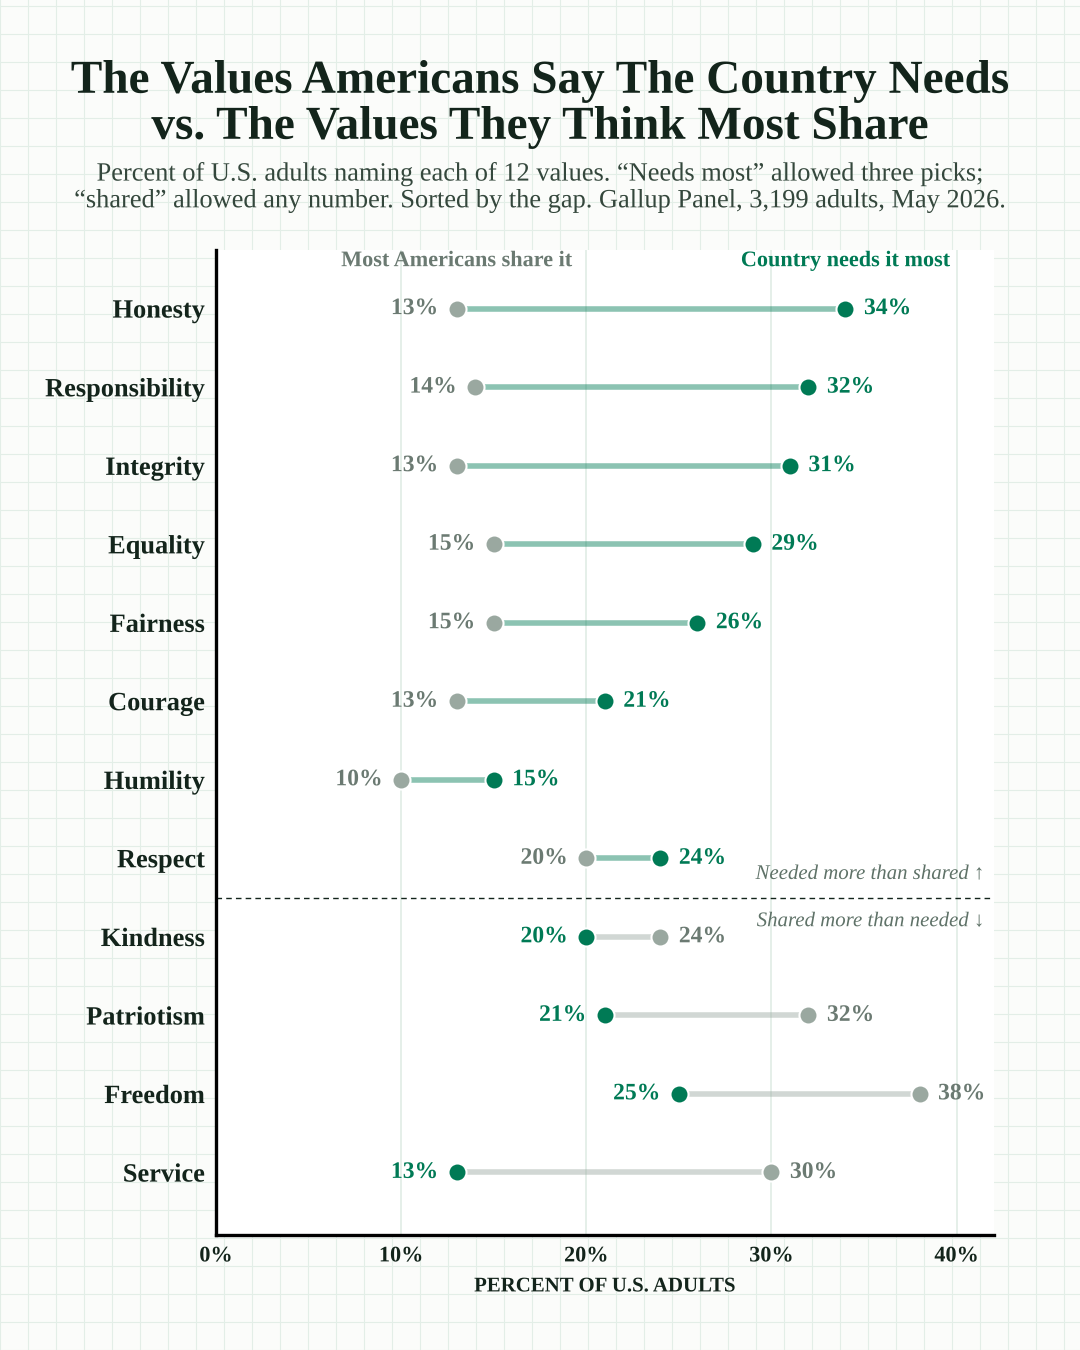
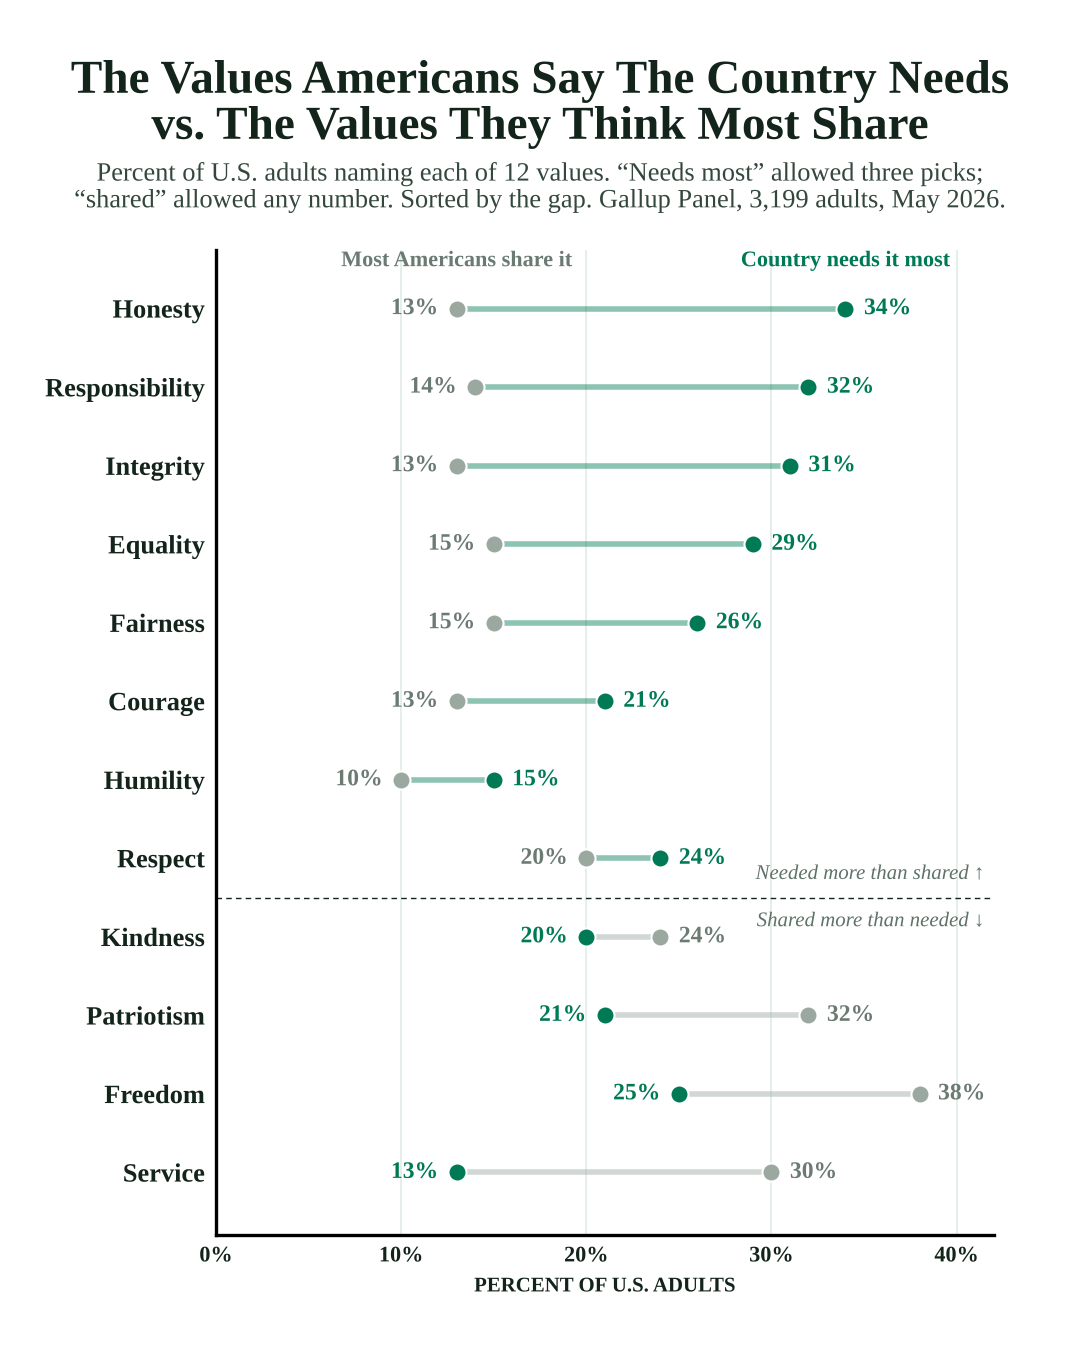
Values story: plain white background on chart images
Claude-Session: https://claude.ai/code/session_01P7HXLHT8bQYmHkvAVWjw9o

diff --git a/values/src/values_chart.py b/values/src/values_chart.py
@@ -12,7 +12,7 @@ for f in fm.findSystemFonts():
         fm.fontManager.addfont(f)
 plt.rcParams["font.family"] = ["Times New Roman", "Liberation Serif", "serif"]
 
-HI, GRAY, INK, MUT, GRID, BG = "#007a55", "#9aa8a0", "#13241b", "#5f7268", "#e3eee7", "#fbfcfa"
+HI, GRAY, INK, MUT, GRID, BG = "#007a55", "#9aa8a0", "#13241b", "#5f7268", "#e3eee7", "#ffffff"
 
 # (value, needed most %, shared by most %)
 ROWS = [("Honesty", 34, 13), ("Responsibility", 32, 14), ("Integrity", 31, 13), ("Equality", 29, 15),
@@ -34,7 +34,7 @@ def graph_paper(fig, step):
 def draw(path, W, H, box, title, sub, s):
     """box = [left, bottom, width, height] of the plot area in figure fractions; s = text scale."""
     fig = plt.figure(figsize=(W / 100, H / 100), dpi=100, facecolor=BG)
-    graph_paper(fig, 28)
+    # plain white background (graph paper removed Oct. 26, 2026)
     fig.text(0.5, 1 - 0.045 * 1350 / H * (H / 1350) ** 0 - 0.0, "", )
     ty = 1 - 60 / H
     for i, line in enumerate(title):
